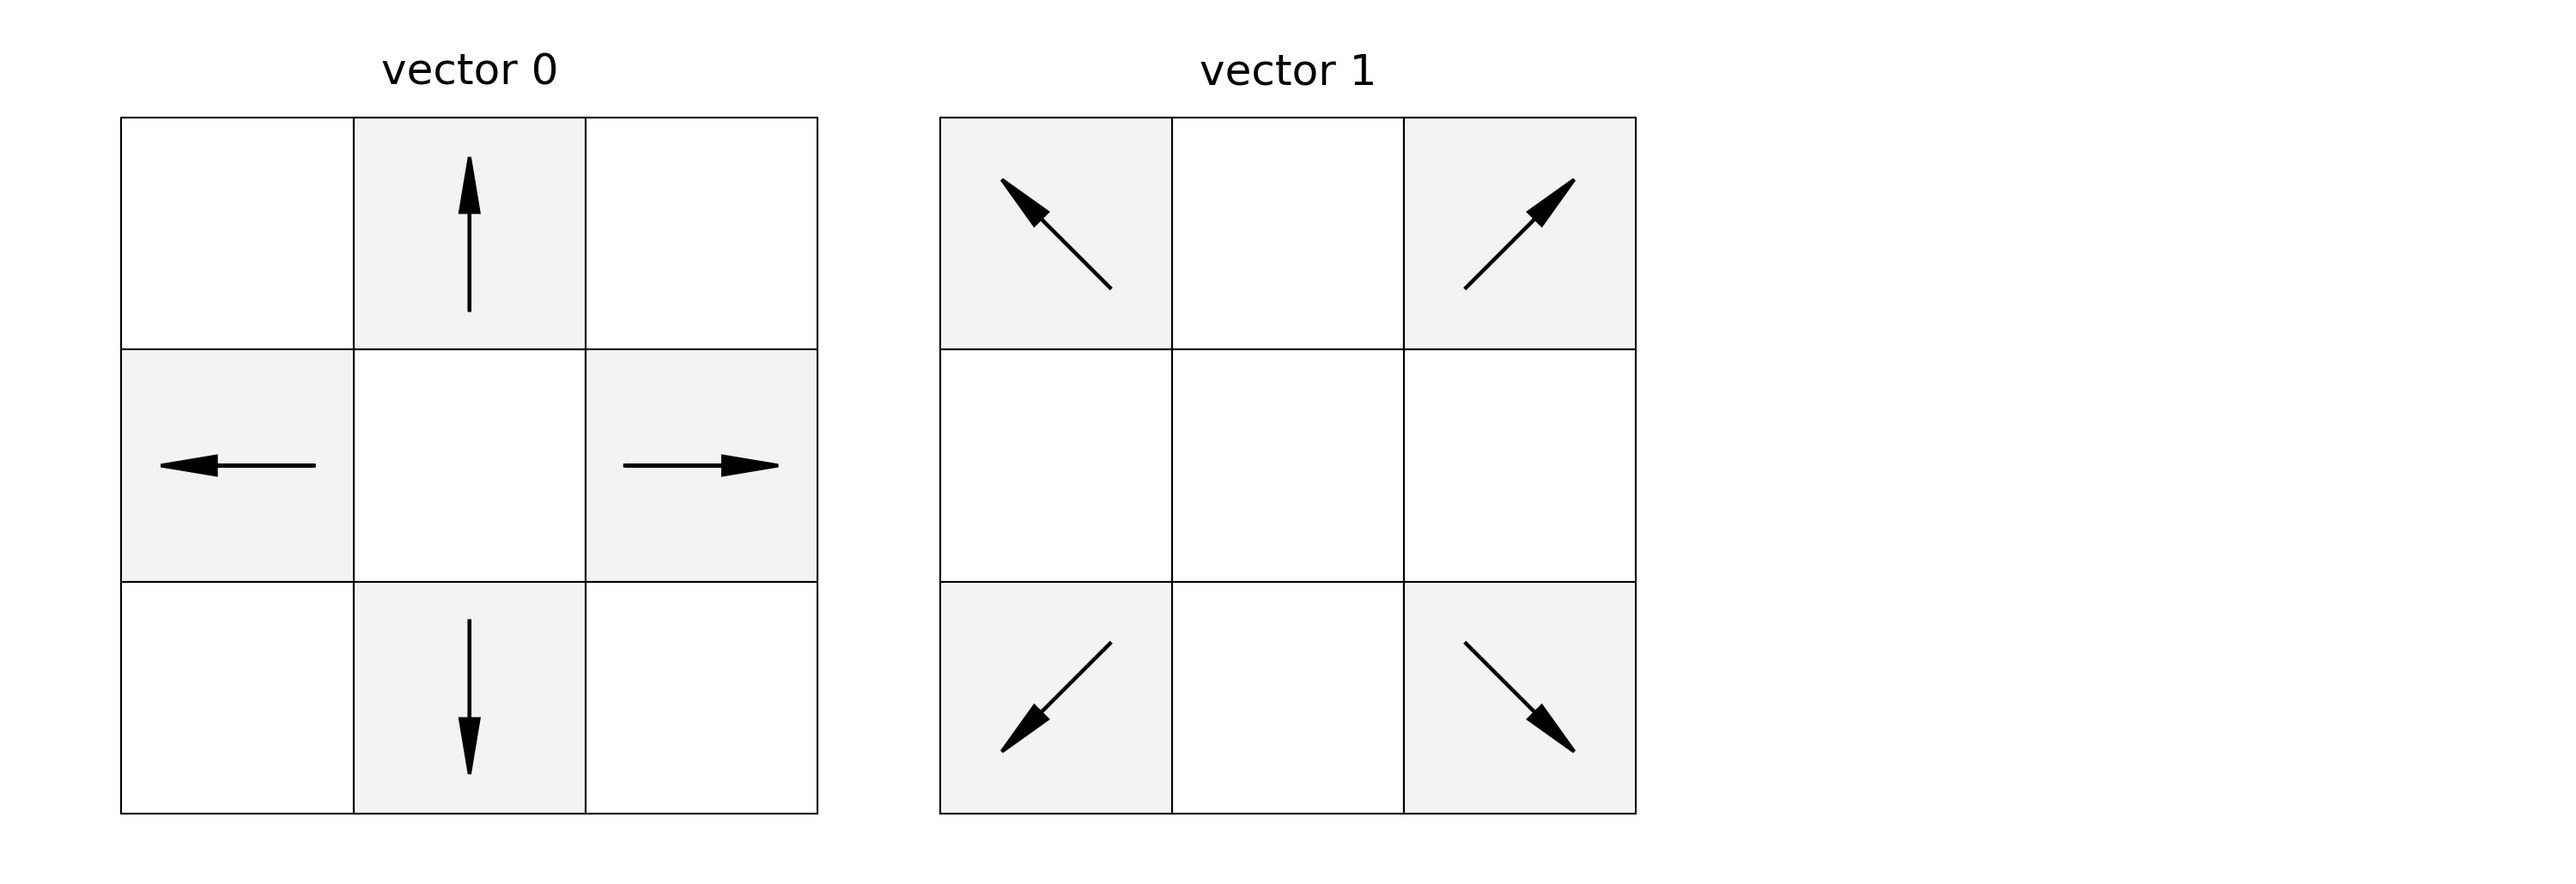
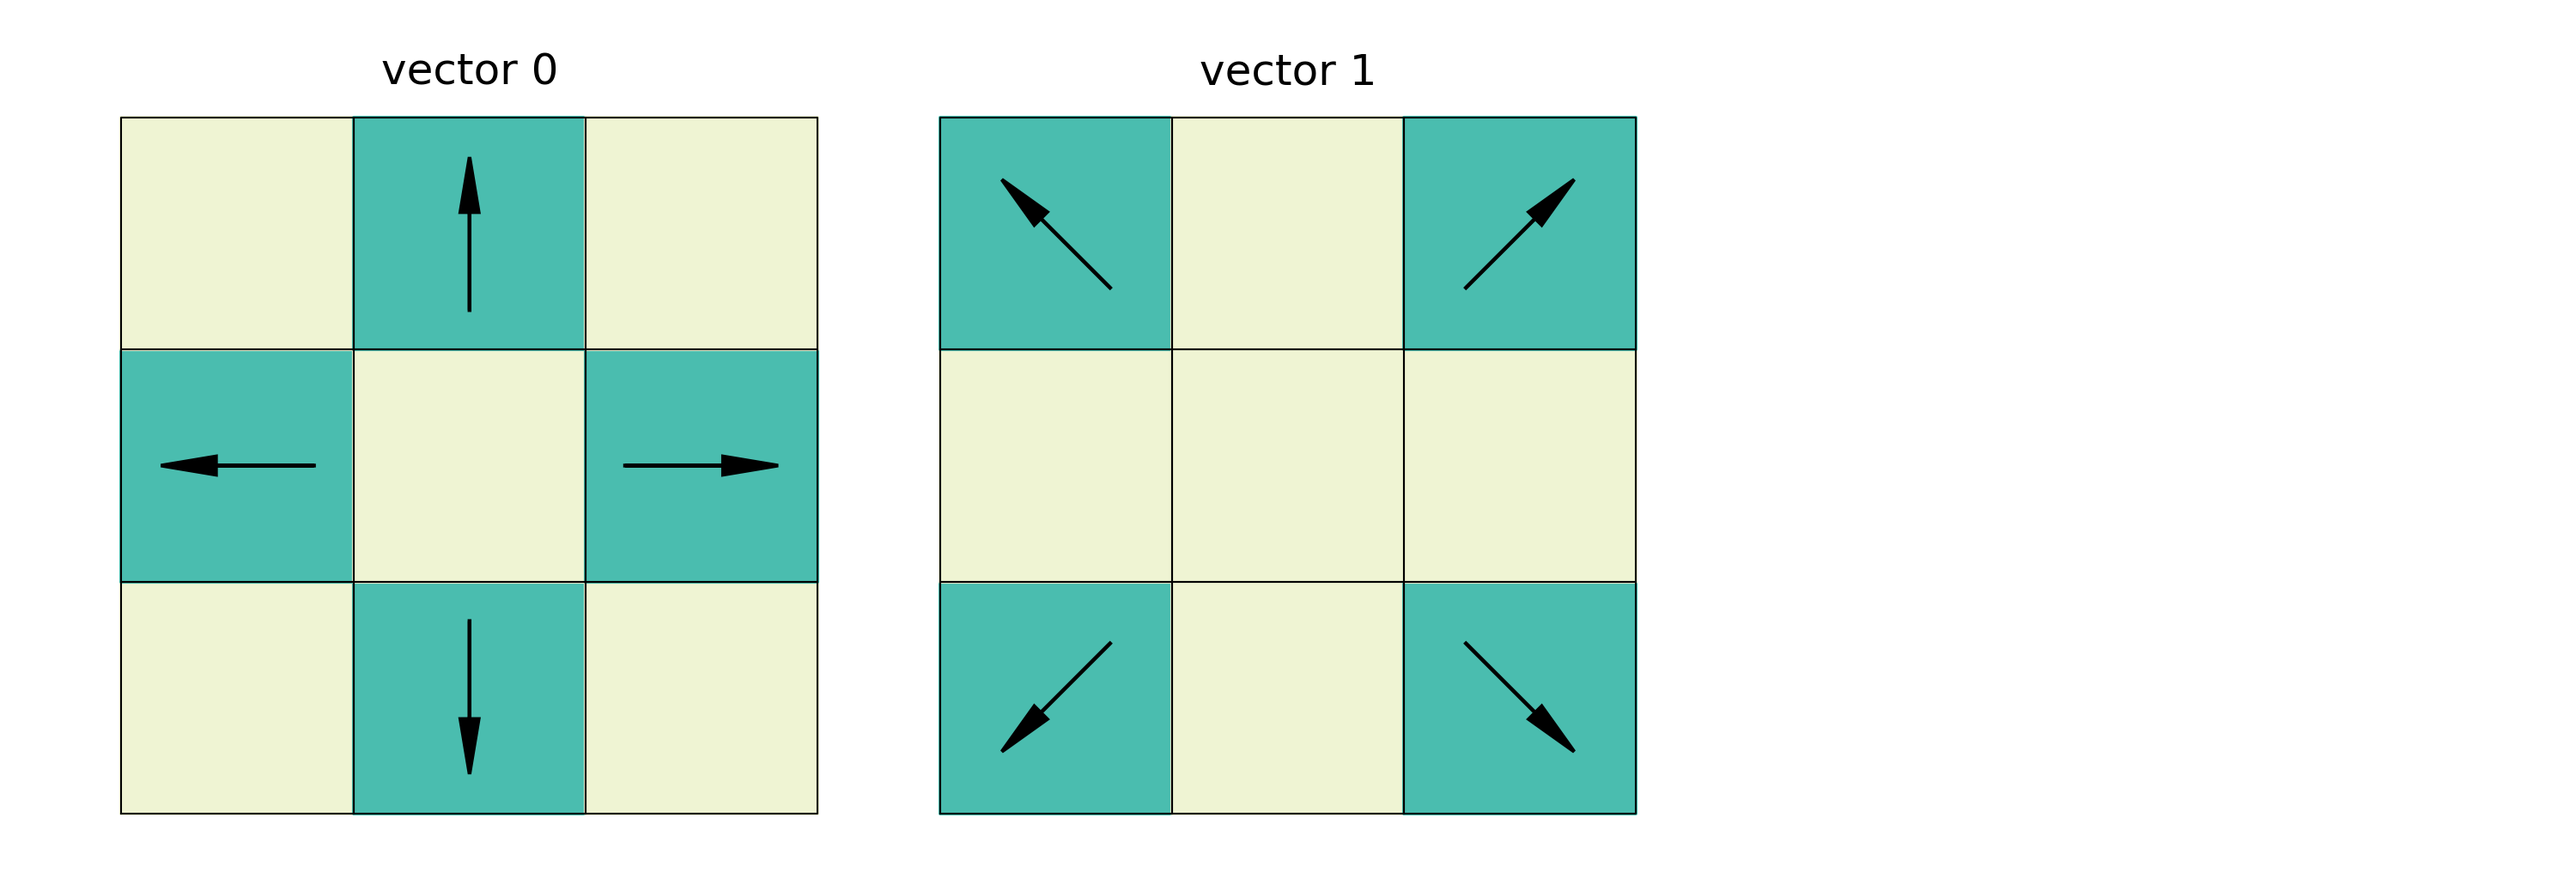
colorful figures

diff --git a/notebooks/geometric.py b/notebooks/geometric.py
@@ -18,6 +18,7 @@ import numpy as np
 import pylab as plt
 import matplotlib.cm as cm
 from matplotlib.colors import ListedColormap
+import cmastro as cma
 import itertools as it
 
 TINY = 1.e-5
@@ -288,11 +289,15 @@ class geometric_filter:
 FIGSIZE = (4, 3)
 XOFF, YOFF = 0.15, -0.1
 
-def make_colormap():
-    foo = np.linspace(0., 0.5, 256)
-    cmap = cm.get_cmap("gray_r")
-    colors = [cmap(f) for f in foo]
-    return ListedColormap(colors)
+def make_colormap(unph=True):
+    if unph:
+        return cm.get_cmap("cma:unph")
+    else:
+        foo = np.linspace(0., 0.5, 256)
+        cmap = cm.get_cmap("gray_r")
+        colors = [cmap(f) for f in foo]
+        return ListedColormap(colors)
+    return
 cmap = make_colormap()
 
 def setup_plot():
@@ -335,16 +340,11 @@ def fill_boxes(ax, xs, ys, ws, vmin, vmax, cmap, zorder=-100, colorbar=False):
     return
 
 def plot_scalars(ax, M, xs, ys, ws, boxes=True, fill=True, symbols=True,
-                 vmin=0., vmax=5., cmap=cmap, colorbar=False,
-                 norm_fill=False):
+                 vmin=-2., vmax=2., cmap=cmap, colorbar=False):
     if boxes:
         plot_boxes(ax, xs, ys)
     if fill:
-        if norm_fill:
-            nws = np.abs(ws)
-        else:
-            nws = ws
-        fill_boxes(ax, xs, ys, nws, vmin, vmax, cmap, colorbar=colorbar)
+        fill_boxes(ax, xs, ys, ws, vmin, vmax, cmap, colorbar=colorbar)
     if symbols:
         height = ax.get_window_extent().height
         ss = (5 * height / M) * np.abs(ws)
@@ -373,20 +373,16 @@ def plot_scalar_filter(filter, title, ax=None):
             xs[i], ys[i] = pp
         elif filter.D == 3:
             xs[i], ys[i] = pp[0] + XOFF * pp[2], pp[1] + XOFF * pp[2]
-    plot_scalars(ax, filter.M, xs, ys, ws, norm_fill=True)
+    plot_scalars(ax, filter.M, xs, ys, ws)
     finish_plot(ax, title, filter.pixels(), filter.D)
     return ax
 
 def plot_vectors(ax, xs, ys, ws, boxes=True, fill=True,
-                 vmin=0., vmax=5., cmap=cmap, scaling=None):
+                 vmin=-2., vmax=2., cmap=cmap, scaling=0.33):
     if boxes:
         plot_boxes(ax, xs, ys)
     if fill:
         fill_boxes(ax, xs, ys, np.linalg.norm(ws, axis=-1), vmin, vmax, cmap)
-    if scaling is None:
-        nws = np.linalg.norm(ws, axis=-1)
-        I = nws > TINY
-        scaling = 0.33 / np.median(nws[I])
     for x, y, w in zip(xs, ys, ws):
         normw = np.linalg.norm(w)
         if normw > TINY:
@@ -415,11 +411,11 @@ def plot_vector_filter(filter, title, ax=None):
             xs[i], ys[i] = pp
         elif filter.D == 3:
             xs[i], ys[i] = pp[0] + XOFF * pp[2], pp[1] + YOFF * pp[2]
-    plot_vectors(ax, xs, ys, ws)
+    plot_vectors(ax, xs, ys, ws, vmin=-3., vmax=3.)
     finish_plot(ax, title, filter.pixels(), filter.D)
     return ax
 
-def plot_no_filter(ax):
+def plot_nothing(ax):
     ax.set_title(" ")
     nobox(ax)
     return
@@ -440,7 +436,7 @@ def plot_filters(filters, names, n):
         if ff.k == 1:
             plot_vector_filter(ff, name, ax=axes[i])
     for i in range(len(filters), n):
-        plot_no_filter(axes[i])
+        plot_nothing(axes[i])
     return fig
 
 # ------------------------------------------------------------------------------
@@ -621,7 +617,7 @@ def setup_image_plot():
     ff = plt.figure(figsize=(8, 6))
     return ff
 
-def plot_scalar_image(image, vmin=None, vmax=None, ax=None, colorbar=False):
+def plot_scalar_image(image, vmin=-1., vmax=1., ax=None, colorbar=False):
     assert image.D == 2
     assert image.k == 0
     if ax is None:
@@ -655,7 +651,7 @@ def plot_vector_image(image, ax=None):
     plotdata = np.array([[pp[0], pp[1], image[kk].data[0], image[kk].data[1]]
                          for kk, pp in zip(image.keys(), image.pixels())])
     plot_vectors(ax, plotdata[:, 0], plotdata[:, 1], plotdata[:, 2:4],
-                 boxes=True, fill=False)
+                 boxes=True, fill=True, scaling=0.5)
     image_axis(ax, plotdata)
     return ax
 
@@ -665,3 +661,27 @@ def plot_image(image, **kwargs):
         plot_scalar_image(image, **kwargs)
     if image.k == 1:
         plot_vector_image(image, **kwargs)
+
+def plot_images(images):
+    """
+    # Notes:
+    - This takes a list of lists, each inner list is an image and
+      a LaTeX expression.
+    """
+    nim = len(images)
+    n = np.ceil(np.sqrt(nim)).astype(int)
+    m = np.ceil(nim / n).astype(int)
+    print(len(images), n, m)
+    bar = 10. # inches?
+    fig, axes = plt.subplots(m, n, figsize = (bar, 0.5 + 0.5 * m + bar * m / n)) # magic
+    axes = np.atleast_1d(axes).flatten()
+    bar = 0.2 / m
+    foo = 0.2 / n # fractional?
+    plt.subplots_adjust(left=foo/2, right=1-foo/2, wspace=foo,
+                        bottom=bar, hspace=bar)
+    for ax, (image, latex) in zip(axes, images):
+        plot_image(image, ax=ax)
+        finish_plot(ax, "$" + latex + "$", image.pixels(), image.D)
+    for i in range(nim, n * m):
+        plot_nothing(axes[i])
+    return fig
